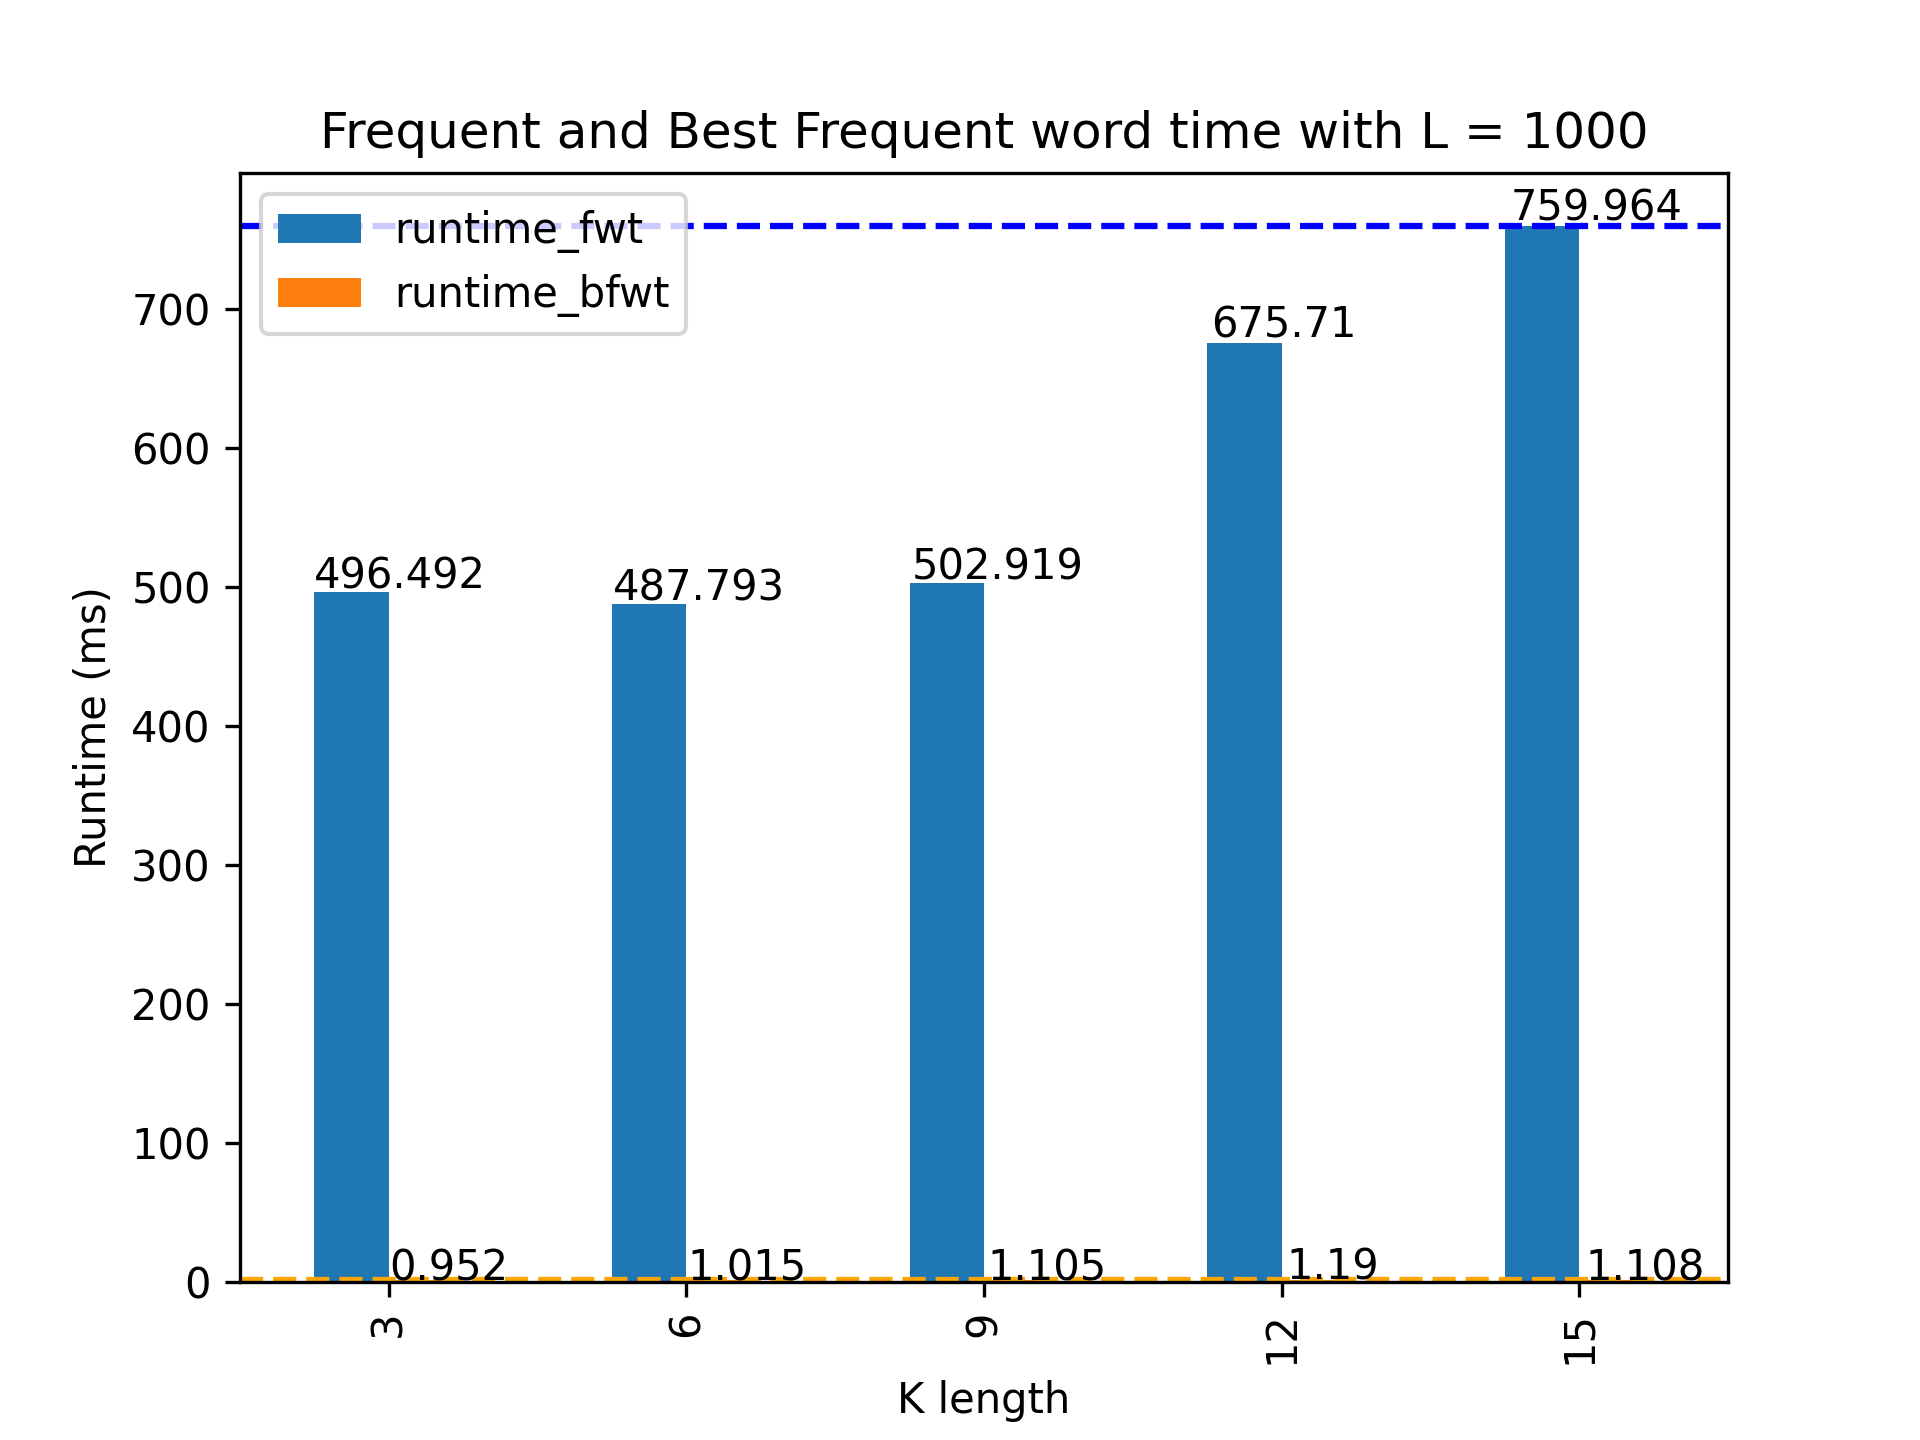
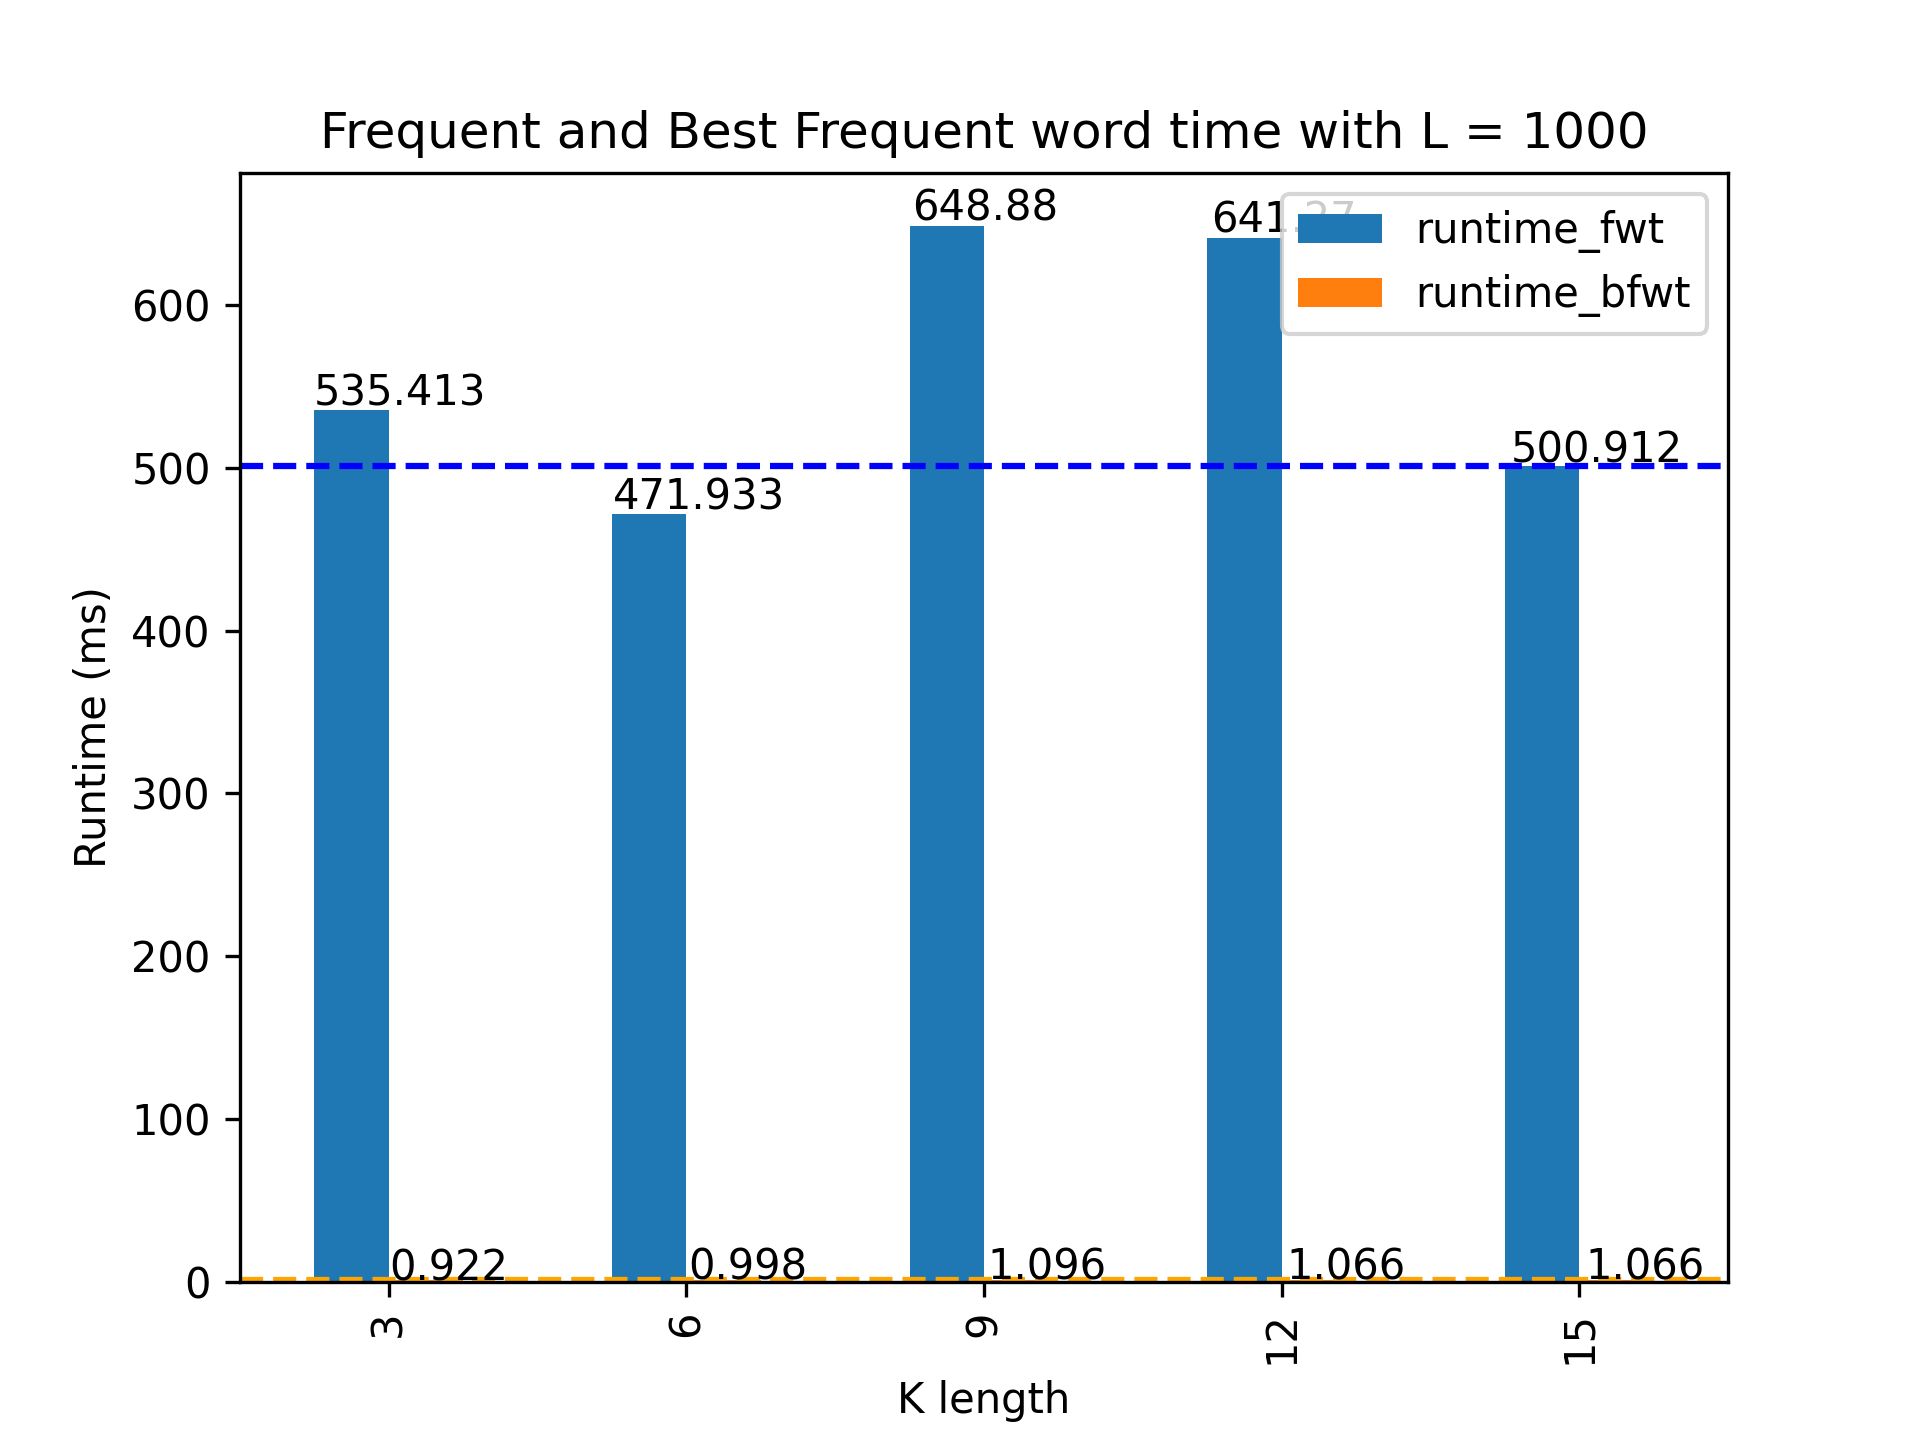
task 1 to task e3 adding removing polyA tail from Covid Genome sequences

diff --git a/p01/main.py b/p01/main.py
@@ -40,22 +40,22 @@ if __name__ == '__main__':
   print("Task 3: Generating Random DNA Sequences")
   print("========================================")
   num_executions = 10
-  random_length = 30
+  random_length = 10
   print(f"Using Numpy random choice function of Python,"
         "\nwe generate {num_executions} random DNA sequences of variable lenght: ")
   for _ in range(num_executions):
-    random_sequence = fk.generate_dna(np.random.randint(random_length))
+    random_sequence = fk.generate_dna(np.random.randint(random_length, random_length + 5))
     pp.pprint(random_sequence)  
-  '''
+  
   print()
-  print("===============================")
-  print("Task 4: Ploting runtime for K & L")
-  print("===============================")
+  print("=====================================================")
+  print("Task 4: Ploting runtime comparing our two algorithms")
+  print("=====================================================")
   dna_length = [25, 50, 75, 100, 250, 500, 750, 1000]
   dna_kmers = [3, 6, 9, 12, 15]
   print("Using Pandas and Matplot libraries of Python, \nwe plot the running time of our two algorithms \nfor different sequence lengths and different k-mers:")
   print("L = ", dna_length)
-  print("K-mers: ", dna_kmers)
+  print("K-mers = ", dna_kmers)
   
   random_results = []
   for l in dna_length:
@@ -91,13 +91,15 @@ if __name__ == '__main__':
     plt.axhline(y=np.nanmean(fwt), color='blue', linestyle='--')
     plt.axhline(y=np.nanmean(bfwt), color='orange', linestyle='--')
     plt.savefig(f"./docs/images/q4_{l}.png", dpi=300)
-    
+    plt.show()
+
+  print("\nNote: Images shown have been stored in docs/images folder to be embeded in the project.") 
   print("\nThe following is a table of the executions included in the charts:\n")
-  print("|Length|K-mer|FWT(ms)|BFWT(ms)|")
+  print("|Length|K-length|FW(ms)|BFW(ms)|")
   print("|:----:|:---:|:-----:|:------:|")
   for r in random_results:
     print("|", r["l"], "|", r["k"], "|", r["fwt"], "|", r["bfwt"], "|") 
-  ''' 
+ 
 
   print()
   print("============================================================")
@@ -105,9 +107,8 @@ if __name__ == '__main__':
   print("============================================================")
   
   print("\nThe following is a table of the most frequent k-mers present in the SARS-CoV-2 and SARS-CoV genomes:\n")
-  print("|Genome|K-mer|String|")
+  print("|Genome|K-length|K-mer|")
   print("|:----:|:---:|:-----:|")
-
   file_names = ['SARS-CoV-2', 'SARS-CoV']
   covid_k = [3, 6, 9, 12, 15]
   for file in file_names: 
@@ -134,6 +135,31 @@ if __name__ == '__main__':
   for k_mer in covid_k:
     p_value = fk.permutation_test(covid2_genome, k_mer, num_per)
     print(f"{k_mer}-mer gives a p-value of {p_value}")
-  exit()
-
   
+  print()
+  print("===========================================================================")
+  print("E3: Find the longest k-mer repeats beyond 15 in SARS-CoV-2 genome sequence")
+  print("===========================================================================")
+
+  print()
+  print("First, we find what is the max value for k in each Genome:\n")
+  print("|Genome|K-length|# matches|")
+  print("|:----:|:---:|:-----:|")
+  file_names = ['SARS-CoV-2', 'SARS-CoV']
+  covid_k = range(15,40)
+  for file in file_names: 
+    covid2_genome = fk.get_covid_genome(file + '.txt')
+    for k in covid_k:
+      result = fk.better_frequent_words(covid2_genome, k)
+      rs = len(result[0])
+      if rs < 1000:
+        print("|", file, "|", k, "|", rs, "|")
+  
+  print("\nNow, that we know for SARS-CoV-2 is k=17 and for SARS-CoV is K=16, we found the longest kmers:")
+  longest_covid2 = fk.better_frequent_words(fk.get_covid_genome(file_names[0] + '.txt'), 17)
+  longest_covid1 = fk.better_frequent_words(fk.get_covid_genome(file_names[1] + '.txt'), 16)
+  print("Longest k-mers in SARS-CoV-2: ", longest_covid2[0])
+  print("Longest k-mers in SARS-CoV  : ", longest_covid1[0])
+  print()
+
+  exit()

diff --git a/p01/FrequentKmers.py b/p01/FrequentKmers.py
@@ -87,9 +87,9 @@ class FrequentKmers:
       sequence = file.read().replace('\n', '').strip()
     tail_length = 10
     if(filename == "SARS-CoV-2.txt"):
-      tail_length = 32
+      tail_length = 33
     if(filename == "SARS-CoV.txt"):
-      tail_length = 23
+      tail_length = 24
     return self.remove_polyA(sequence, tail_length)
 
   # Permutation test (null distribution):
